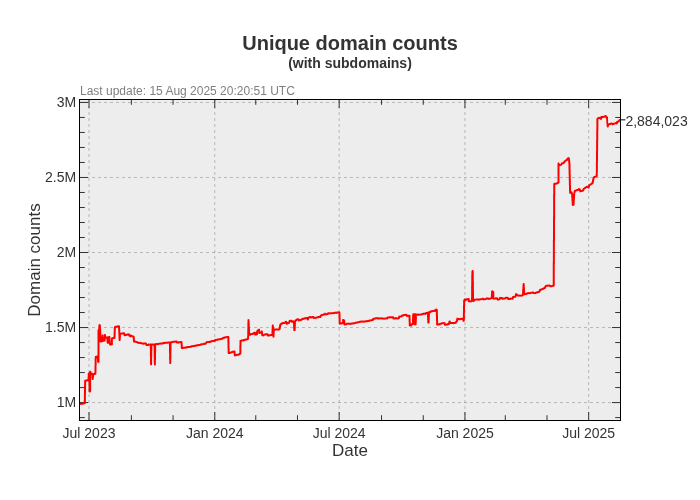
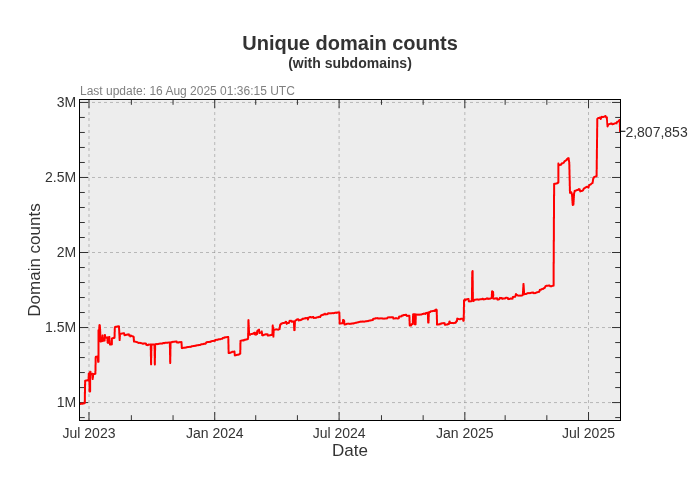
Update pages

diff --git a/README.md b/README.md
@@ -3,22 +3,22 @@ A blocklist file for blocking ads, trackers and malware domains.
 
[1 lines of base64/hex data omitted]
 
-- Unique domains: 2,884,023
-- Without subdomains: 2,187,012
-- Last update: 15 Aug 2025 20:20:51 UTC
-- Version: 2025.08.15.01
+- Unique domains: 2,807,853
+- Without subdomains: 2,120,091
+- Last update: 16 Aug 2025 01:36:15 UTC
+- Version: 2025.08.16.01
 
 
 ### Downloads:
 
 | Format             | Domain count      | Download Link |
 |:------------------ | -----------------:|:-------------:|
-| *Adblock Plus*     | 2,187,012 | [Download](https://dl.cenk.app/bad-hosts/bad-hosts-abp) |
-| *Wildcard domains* | 2,187,012 | [Download](https://dl.cenk.app/bad-hosts/bad-hosts-wildcard) |
-| *dnsmasq*          | 2,187,012 | [Download](https://dl.cenk.app/bad-hosts/bad-hosts-dnsmasq) |
-| *hosts*            | 2,884,023 | [Download](https://dl.cenk.app/bad-hosts/hosts) |
-| *hosts (ipv6)*     | 2,884,023 | [Download](https://dl.cenk.app/bad-hosts/hosts-ipv6) |
-| *Plain domains*    | 2,884,023 | [Download](https://dl.cenk.app/bad-hosts/bad-hosts-domains) |
+| *Adblock Plus*     | 2,120,091 | [Download](https://dl.cenk.app/bad-hosts/bad-hosts-abp) |
+| *Wildcard domains* | 2,120,091 | [Download](https://dl.cenk.app/bad-hosts/bad-hosts-wildcard) |
+| *dnsmasq*          | 2,120,091 | [Download](https://dl.cenk.app/bad-hosts/bad-hosts-dnsmasq) |
+| *hosts*            | 2,807,853 | [Download](https://dl.cenk.app/bad-hosts/hosts) |
+| *hosts (ipv6)*     | 2,807,853 | [Download](https://dl.cenk.app/bad-hosts/hosts-ipv6) |
+| *Plain domains*    | 2,807,853 | [Download](https://dl.cenk.app/bad-hosts/bad-hosts-domains) |
 
 ### Domain count history
 #### With subdomains
